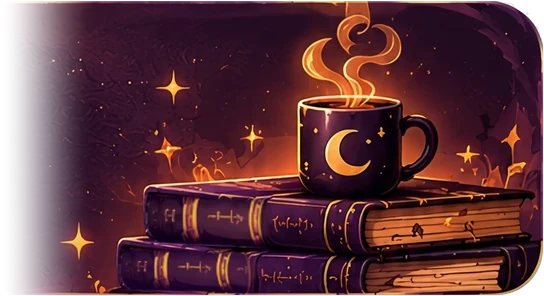
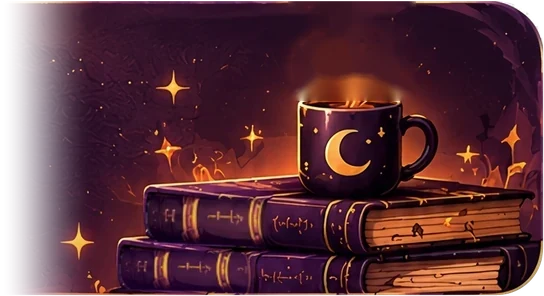
Home: living mug steam on Next to Collect (stirred by touch) and a ticklish reading pumpkin on Latest Addition — home-110
Claude-Session: https://claude.ai/code/session_01DZ2Pcymwnpb1uk9AjuiEZF

Changed region(s): [[0.5312, 0.0, 0.7812, 0.3649]]

diff --git a/homefx.js b/homefx.js
@@ -1,0 +1,90 @@
+/* Home: small living touches on the cards.
+   1. Next to Collect: the mug's steam is alive — soft warm wisps rise and sway; a finger stirs them, then they settle.
+   2. Latest Addition: the reading pumpkin is ticklish — a tap makes him wiggle and giggle. */
+(function(){
+  const reduce=matchMedia('(prefers-reduced-motion: reduce)').matches;
+
+  /* ---------- 1. steam ---------- */
+  /* three glowing ribbons, like the painted curls: a wave travels up each one; a finger pushes the ribbon
+     aside (it springs back), and a quick swipe also scatters a few loose puffs */
+  const cv=document.getElementById('steam');
+  if(cv){
+    // canvas units = pixels of the nook_fg picture (544×296), which the card shows at its full height on the right
+    const c=cv.getContext('2d'),CW=260,CH=135,FX=238;     // canvas covers picture x 238…498, y 0…135
+    const MX=112,MY=108,N=28,TOP=3;                        // mug opening centre x, just below the rim; points per ribbon; highest point
+    const nook=cv.parentElement;
+    function place(){const H=nook.offsetHeight,W=nook.offsetWidth,s=H/296,left=W-544*s;   // same as the card's background placement
+      cv.style.left=(left+FX*s)+'px';cv.style.top='0px';cv.style.width=(CW*s)+'px';cv.style.height=(CH*s)+'px';size()}
+    let k=1,last=0,on=false,raf=0,ptr=null,T=0,puffs=[];
+    const R=[{x:-20,ph:0,sp:1.7,amp:17,f:.058,w:9.5,h:.9},{x:2,ph:2.3,sp:1.45,amp:19,f:.048,w:11,h:1},{x:21,ph:4.4,sp:1.9,amp:14,f:.066,w:9,h:.78}]
+      .map(r=>({...r,ox:new Float32Array(N),oy:new Float32Array(N),vx:new Float32Array(N),vy:new Float32Array(N)}));
+    const dot=document.createElement('canvas');dot.width=dot.height=48;
+    {const d=dot.getContext('2d'),g=d.createRadialGradient(24,24,0,24,24,24);
+      g.addColorStop(0,'rgba(255,220,160,.9)');g.addColorStop(.4,'rgba(250,160,70,.4)');g.addColorStop(1,'rgba(240,130,50,0)');d.fillStyle=g;d.fillRect(0,0,48,48)}
+    function size(){
+      const r=cv.getBoundingClientRect();k=r.width/CW||1;const D=Math.min(devicePixelRatio||1,2);
+      cv.width=Math.max(1,Math.round(r.width*D));cv.height=Math.max(1,Math.round(r.height*D));c.setTransform(cv.width/CW,0,0,cv.height/CH,0,0)}
+    // where point i of a ribbon is now (without the finger's push)
+    function base(r,i){const u=i/(N-1),y=MY-(MY-TOP)*u*r.h,grow=Math.pow(u,.8);
+      // the breathing: each ribbon slowly leans and its height swells a little
+      const x=MX+r.x+Math.sin((MY-y)*r.f-T*r.sp+r.ph)*r.amp*grow+Math.sin(T*.4+r.ph)*8*u*u;
+      return [x,y]}
+    function step(dt){
+      T+=dt;
+      for(const r of R)for(let i=1;i<N;i++){     // the push springs back
+        r.vx[i]+=(-r.ox[i]*14-r.vx[i]*3.2)*dt;r.vy[i]+=(-r.oy[i]*14-r.vy[i]*3.2)*dt;r.ox[i]+=r.vx[i]*dt;r.oy[i]+=r.vy[i]*dt}
+      for(const p of puffs){p.age+=dt;p.x+=p.vx*dt;p.y+=p.vy*dt;p.vx*=Math.pow(.3,dt);p.vy+=(-14-p.vy)*Math.min(1,dt*2);p.r+=dt*7}
+      puffs=puffs.filter(p=>p.age<p.life)}
+    function draw(){
+      c.clearRect(0,0,CW,CH);c.lineCap='round';c.lineJoin='round';
+      for(const r of R){
+        const P=[];for(let i=0;i<N;i++){const [x,y]=base(r,i);P.push([x+r.ox[i],y+r.oy[i]])}
+        for(let pass=0;pass<2;pass++){          // soft glow underneath, bright core on top
+          for(let i=1;i<N;i++){const u=i/(N-1),fade=Math.min(1,u*14)*Math.pow(1-u,1.1);if(fade<.02)continue;
+            const w=r.w*(1-u*.7)*(pass?1:2.4);
+            c.strokeStyle=pass?`rgba(255,${172+Math.round(45*(1-u))},${82+Math.round(60*(1-u))},${.95*fade})`:`rgba(245,140,50,${.3*fade})`;
+            c.lineWidth=w;c.beginPath();const a=P[i-1],b=P[i],m=P[Math.min(N-1,i+1)];
+            c.moveTo(a[0],a[1]);c.quadraticCurveTo(b[0],b[1],(b[0]+m[0])/2,(b[1]+m[1])/2);c.stroke()}}
+      }
+      if(puffs.length){c.globalCompositeOperation='lighter';
+        for(const p of puffs){const t=p.age/p.life;c.globalAlpha=Math.min(1,p.age*5)*(1-t)*.5;const s=p.r*2;c.drawImage(dot,p.x-s/2,p.y-s/2,s,s)}
+        c.globalAlpha=1;c.globalCompositeOperation='source-over'}
+    }
+    function frame(now){const dt=Math.min(.05,(now-last)/1000||0);last=now;step(dt);draw();raf=on?requestAnimationFrame(frame):0}
+    function start(){if(on||document.hidden||reduce)return;on=true;last=performance.now();raf=requestAnimationFrame(frame)}
+    function stop(){on=false;if(raf)cancelAnimationFrame(raf);raf=0}
+    const at=e=>{const r=cv.getBoundingClientRect();return{x:(e.clientX-r.left)/r.width*CW,y:(e.clientY-r.top)/r.height*CH}};
+    function stir(q,mvx,mvy,tap){
+      const sp=Math.hypot(mvx,mvy);
+      for(const r of R)for(let i=2;i<N;i++){const [bx,by]=base(r,i),x=bx+r.ox[i],y=by+r.oy[i],dx=x-q.x,dy=y-q.y,d=Math.hypot(dx,dy)||1;
+        if(d>40)continue;const f=1-d/40;
+        r.vx[i]+=(dx/d*(tap?160:70)+mvx*.5)*f;r.vy[i]+=(dy/d*(tap?60:30)+mvy*.3)*f*.6;
+        if((tap||sp>120)&&Math.random()<.18*f)puffs.push({x,y,vx:dx/d*30+mvx*.3,vy:-10+mvy*.2,r:3,age:0,life:.9+Math.random()*.6})}
+      if(!on&&!reduce)start()}
+    cv.addEventListener('pointerdown',e=>{e.preventDefault();const q=at(e);ptr={...q,t:performance.now()};stir(q,0,0,true);try{cv.setPointerCapture(e.pointerId)}catch(err){}});
+    cv.addEventListener('pointermove',e=>{if(!ptr)return;const q=at(e),now=performance.now(),dt=Math.max(.008,(now-ptr.t)/1000);
+      stir(q,Math.max(-600,Math.min(600,(q.x-ptr.x)/dt)),Math.max(-600,Math.min(600,(q.y-ptr.y)/dt)),false);ptr={...q,t:now}});
+    const up=()=>{ptr=null};cv.addEventListener('pointerup',up);cv.addEventListener('pointercancel',up);
+    cv.addEventListener('click',e=>e.stopPropagation());   // stirring the steam never opens the book
+    place();addEventListener('resize',place);if(window.ResizeObserver)new ResizeObserver(place).observe(nook);
+    document.addEventListener('visibilitychange',()=>document.hidden?stop():start());
+    addEventListener('pagehide',stop);addEventListener('pageshow',start);
+    draw();start();
+  }
+
+  /* ---------- 2. ticklish pumpkin ---------- */
+  const pk=document.getElementById('pkReader'),card=document.getElementById('reading');
+  if(pk&&card){
+    let n=0;
+    pk.addEventListener('click',e=>{
+      e.stopPropagation();
+      pk.classList.remove('tickle');void pk.offsetWidth;pk.classList.add('tickle');
+      if(reduce)return;
+      // a little giggle floats up beside him
+      const words=['hee hee!','hehe!','tee hee!'],h=document.createElement('span');
+      h.className='giggle';h.textContent=words[n++%words.length];h.style.setProperty('--dx',(n%2?-1:1)*(10+Math.random()*16)+'px');
+      h.style.left=(n%2?62:88)+'%';card.appendChild(h);setTimeout(()=>h.remove(),1500);
+    });
+    pk.addEventListener('animationend',()=>pk.classList.remove('tickle'));
+  }
+})();

diff --git a/index.html b/index.html
@@ -6,13 +6,14 @@
 <meta name="color-scheme" content="dark">
 <meta name="theme-color" content="#0e0416">
 <meta http-equiv="Cache-Control" content="no-cache">
-<meta name="app-version" content="home-109">
+<meta name="app-version" content="home-110">
 <script>try{document.documentElement.classList.add(sessionStorage.getItem('intro.shown')==='1'?'back':'intro-on')}catch(e){}</script>
 <meta name="viewport" content="width=device-width, initial-scale=1, viewport-fit=cover, user-scalable=no">
 <link rel="preload" as="image" href="img/frame.webp" fetchpriority="high">
 <link rel="preload" as="image" href="img/canopy.webp">
 <link rel="preload" as="image" href="img/bar_bg.webp">
 <link rel="preload" as="image" href="img/reading_bg.webp">
+<link rel="preload" as="image" href="img/reading_pk.webp">
 <link rel="preload" as="image" href="img/nook_bg.webp">
 <link rel="preload" as="image" href="img/nook_fg.webp">
 <link rel="preload" as="image" href="img/genres_bg.webp">
@@ -120,6 +121,7 @@
     <button class="tab" aria-label="My Library" onclick="location.href='library.html'"><img class="ic" src="img/ic_library.webp" alt=""><span class="lb">My Library</span></button><button class="tab" aria-label="Wishlist" onclick="location.href='library.html?list=wishlist'"><img class="ic" src="img/ic_wish.webp" alt=""><span class="lb">Wishlist</span></button><button class="tab" aria-label="Search" onclick="location.href='search.html'"><img class="ic" src="img/ic_search.webp" alt=""><span class="lb">Search</span></button><button class="tab" aria-label="Add Book" onclick="location.href='add.html'"><img class="ic" src="img/ic_add.webp" alt=""><span class="lb">Add Book</span></button>
   </nav>
   <section id="reading" aria-label="Latest addition">
+    <img id="pkReader" src="img/reading_pk.webp" alt="" role="button" aria-label="Tickle the reading pumpkin">
     <div class="hd"><img class="hi" src="img/ic_latest.webp" alt=""><span>Latest Addition</span></div>
     <div class="bk" id="laBook"><img class="bk-shadow" src="img/book.png" alt=""><div class="bk-tint"></div><img class="bk-shade" src="img/book_shade.png" alt=""><img class="bk-gold" src="img/book_gold.png" alt=""><div class="bk-frame"><img class="bk-cover" alt="" hidden><div class="bk-ph"><svg viewBox="0 0 40 40" aria-hidden="true"><path d="M24 6a14 14 0 1 0 10 24A11 11 0 1 1 24 6z" fill="#e9c873"/><path d="M31 9l1 2.4 2.4 1-2.4 1-1 2.4-1-2.4-2.4-1 2.4-1z" fill="#f6dc96"/></svg><span></span></div></div></div>
     <div class="cr-title" id="laTitle"></div>
@@ -127,6 +129,7 @@
     <div class="la-when" id="laWhen"></div>
   </section>
   <section id="nook" aria-label="Next to collect">
+    <canvas id="steam" aria-hidden="true"></canvas>
     <div class="hd"><img class="hi" src="img/hat.webp" alt=""><span>Next to Collect</span></div>
     <div class="bk" id="wiBook"><img class="bk-shadow" src="img/book.png" alt=""><div class="bk-tint"></div><img class="bk-shade" src="img/book_shade.png" alt=""><img class="bk-gold" src="img/book_gold.png" alt=""><div class="bk-frame"><img class="bk-cover" alt="" hidden><div class="bk-ph"><svg viewBox="0 0 40 40" aria-hidden="true"><path d="M24 6a14 14 0 1 0 10 24A11 11 0 1 1 24 6z" fill="#e9c873"/><path d="M31 9l1 2.4 2.4 1-2.4 1-1 2.4-1-2.4-2.4-1 2.4-1z" fill="#f6dc96"/></svg><span></span></div></div></div>
     <div class="cr-title" id="wiTitle"></div>
@@ -157,5 +160,6 @@
 <script src="undo.js"></script>
 <script src="scene.js"></script>
 <script src="home.js"></script>
+<script src="homefx.js"></script>
 </body>
 </html>

diff --git a/home.css b/home.css
@@ -105,3 +105,21 @@ html.intro-on,html.intro-on body{background:#0e0416!important}   /* dark behind 
 #tabbar .barbook{position:absolute;left:19.21%;width:61.57%;height:auto;bottom:23.98%;pointer-events:none}   /* 163..688 of 851: centred on the screen, clear of Home and Backup; bottom on 130 of 171, top above the bar */
 #tabbar .bookmagic{position:absolute;left:-1.6%;width:103.2%;bottom:23.98%;pointer-events:none}
 #tabbar .bookhit{position:absolute;left:34.6%;width:30.8%;bottom:calc(0px - env(safe-area-inset-bottom,0px));height:calc(98% + env(safe-area-inset-bottom,0px));-webkit-tap-highlight-color:transparent;cursor:pointer}   /* middle half of the book */
+
+/* ---------- Latest Addition: the reading pumpkin is his own picture, so he can be tickled (homefx.js) ---------- */
+#pkReader{left:67.606%;top:5.405%;width:27.7%;height:85.71%;cursor:pointer;-webkit-tap-highlight-color:transparent;-webkit-touch-callout:none;-webkit-user-select:none;user-select:none;transform-origin:50% 96%}
+#pkReader.tickle{animation:tickle 1.05s cubic-bezier(.3,0,.3,1)}
+@keyframes tickle{
+ 0%{transform:none}
+ 9%{transform:rotate(-4deg) scale(1.04,.95)}
+ 20%{transform:rotate(3.5deg) scale(.97,1.04) translateY(-4px)}
+ 31%{transform:rotate(-3.5deg) scale(1.04,.95)}
+ 42%{transform:rotate(3deg) scale(.97,1.04) translateY(-3px)}
+ 53%{transform:rotate(-2.5deg) scale(1.03,.97)}
+ 64%{transform:rotate(2deg) scale(.99,1.02) translateY(-1px)}
+ 76%{transform:rotate(-1deg) scale(1.01,.99)}
+ 100%{transform:none}}
+#reading .giggle{top:14%;z-index:4;pointer-events:none;font:italic 30px/1 "IM Fell English",Georgia,serif;color:#8a3d12;text-shadow:0 0 6px rgba(255,230,180,.9);white-space:nowrap;animation:giggle 1.4s ease-out forwards}
+@keyframes giggle{0%{opacity:0;transform:translate(-50%,18px) scale(.6)}18%{opacity:1;transform:translate(-50%,0) scale(1.05)}100%{opacity:0;transform:translate(calc(-50% + var(--dx,0px)),-34px) scale(1)}}
+/* ---------- Next to Collect: living steam over the mug (homefx.js); the steam is no longer painted in nook_fg ---------- */
+#nook #steam{left:500px;top:0;width:260px;height:135px;touch-action:none;cursor:pointer;-webkit-tap-highlight-color:transparent}

diff --git a/home.js b/home.js
@@ -100,7 +100,7 @@ if(document.fonts)document.fonts.ready.then(()=>{const q=document.getElementById
 document.addEventListener('visibilitychange',()=>{if(!document.hidden)showQuote()});
 
 /* ---------- offline + auto-update ---------- */
-const APP_VERSION='home-109';
+const APP_VERSION='home-110';
 // a new version arrived: drop the saved pictures once so new art shows straight away
 try{const v=localStorage.getItem('home.ver');
   if(v!==APP_VERSION){localStorage.setItem('home.ver',APP_VERSION);
